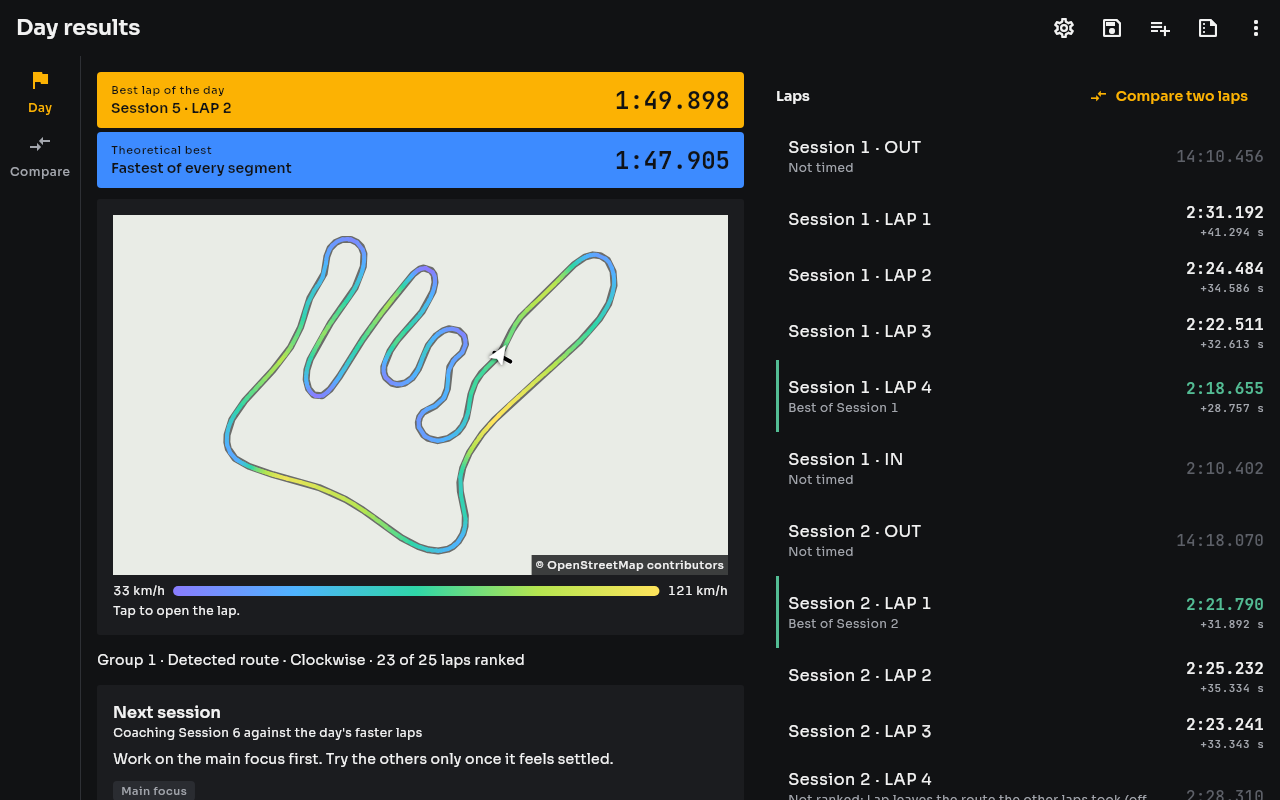
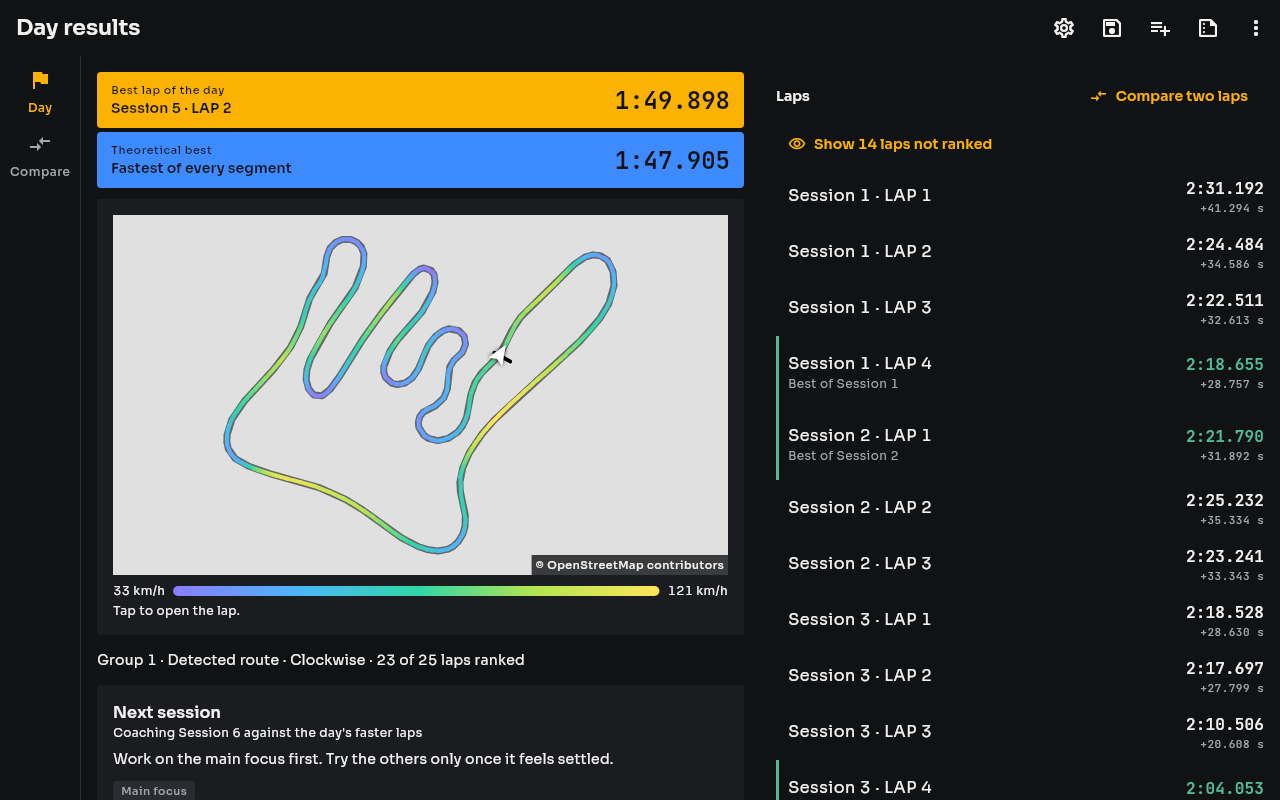
FET-153: hide laps not ranked in the lap list, with a show/hide button (#116)
Out laps, in laps, sections without a start/finish pass, excluded laps
and laps with an issue are hidden from the day's lap list by default.
"Show N laps not ranked" brings them back; the choice is remembered on
the device in settings.json. Only the list changes: the day, its
.fetproject and the recordings keep every lap. With no ranked lap the
list shows everything. Guide, screenshots and Polish strings updated.

Claude-Session: https://claude.ai/code/session_015nymQH33NBGSSd59iCbhRx

diff --git a/test/day/day_results_page_test.dart b/test/day/day_results_page_test.dart
@@ -19,6 +19,7 @@ import 'package:telemetry/format.dart';
 import 'package:telemetry/main.dart';
 import 'package:telemetry/settings_dialog.dart';
 import 'package:telemetry/ui/theme.dart';
+import 'package:telemetry/units.dart';
 import 'package:telemetry_core/telemetry_core.dart';
 
 import 'blank_tiles.dart';
@@ -151,9 +152,53 @@ void main() {
       find.text(displayDelta(second.durationSeconds - best.durationSeconds)),
       findsOneWidget,
     );
-    // OUT, 3 laps, IN; OUT, 2 laps, IN.
+    // OUT, 3 laps, IN; OUT, 2 laps, IN: the out and in laps are not
+    // ranked, so the list hides them until asked.
+    addTearDown(() => hideUnrankedLapsSetting.value = true);
+    expect(hideUnrankedLapsSetting.value, isTrue);
+    expect(find.textContaining(' · OUT'), findsNothing);
+    expect(find.textContaining(' · IN'), findsNothing);
+    expect(find.textContaining(' · LAP '), findsNWidgets(5));
+    await tester.tap(find.text('Show 4 laps not ranked'));
+    await tester.pumpAndSettle();
     expect(find.textContaining(' · OUT'), findsNWidgets(2));
     expect(find.textContaining(' · IN'), findsNWidgets(2));
+    // The choice is the device's setting.
+    expect(hideUnrankedLapsSetting.value, isFalse);
+    await tester.tap(find.text('Hide laps not ranked'));
+    await tester.pumpAndSettle();
+    expect(find.textContaining(' · OUT'), findsNothing);
+    expect(hideUnrankedLapsSetting.value, isTrue);
+  });
+
+  testWidgets('with no ranked lap, the lap list shows every lap', (
+    tester,
+  ) async {
+    final outcome = importDay({
+      'a.vbo': [30, 28, 31],
+    });
+    final controller = DayResultsController(
+      runs: outcome.runs,
+      analysis: outcome.analysis!,
+    );
+    for (final lap in outcome.analysis!.ranking!.eligibleLaps.toList()) {
+      expect(controller.exclude(lap, 'Traffic'), isTrue);
+    }
+    expect(controller.ranking?.eligibleLaps ?? const [], isEmpty);
+    await tester.binding.setSurfaceSize(const Size(400, 1600));
+    addTearDown(() => tester.binding.setSurfaceSize(null));
+    await tester.pumpWidget(
+      TelemetryApp(home: DayResultsPage.controller(controller: controller)),
+    );
+    await tester.tap(find.widgetWithText(NavigationDestination, 'Laps'));
+    await tester.pumpAndSettle();
+    expect(hideUnrankedLapsSetting.value, isTrue);
+    expect(find.byKey(const ValueKey('lapsUnrankedToggle')), findsNothing);
+    expect(find.text('Excluded: Traffic'), findsNWidgets(3));
+    expect(find.textContaining(' · OUT'), findsOneWidget);
+    expect(find.textContaining(' · IN'), findsOneWidget);
+    // Hiding never changed the day.
+    expect(controller.analysis.rows, hasLength(5));
   });
 
   for (final (name, size, section) in [
@@ -279,6 +324,12 @@ void main() {
       );
 
       await tester.pageBack();
+      await tester.pumpAndSettle();
+      // The excluded lap leaves the list with the out and in laps, until
+      // they are shown.
+      addTearDown(() => hideUnrankedLapsSetting.value = true);
+      expect(find.text('Excluded: Traffic'), findsNothing);
+      await tester.tap(find.text('Show 3 laps not ranked'));
       await tester.pumpAndSettle();
       expect(find.text('Excluded: Traffic'), findsOneWidget);
       expect(find.text(second.displayName), findsWidgets);
@@ -477,6 +528,11 @@ void main() {
     await tester.pumpAndSettle();
     expect(find.text('Porównaj dwa okrążenia'), findsOneWidget);
     expect(find.text('Najlepsze okrążenie dnia'), findsOneWidget);
+    expect(find.text('Sesja 2 · OKR. WYJAZDOWE'), findsNothing);
+    addTearDown(() => hideUnrankedLapsSetting.value = true);
+    await tester.tap(find.text('Pokaż 4 niesklasyfikowane okrążenia'));
+    await tester.pumpAndSettle();
+    expect(find.text('Ukryj niesklasyfikowane okrążenia'), findsOneWidget);
     expect(find.text('Sesja 2 · OKR. WYJAZDOWE'), findsOneWidget);
     expect(find.text('Sesja 1 · OKR. 2'), findsWidgets);
 
@@ -725,6 +781,11 @@ void main() {
         home: DayResultsPage.opened(day: opened, documents: documents),
       ),
     );
+    await tester.pumpAndSettle();
+    // Hidden with the laps that are not ranked, and there when shown.
+    addTearDown(() => hideUnrankedLapsSetting.value = true);
+    expect(find.text('Excluded: Traffic'), findsNothing);
+    await tester.tap(find.byKey(const ValueKey('lapsUnrankedToggle')));
     await tester.pumpAndSettle();
     expect(find.text('Excluded: Traffic'), findsOneWidget);
     expect(

diff --git a/lib/units.dart b/lib/units.dart
@@ -38,6 +38,13 @@ final ValueNotifier<SpeedUnitSetting> speedUnitSetting = ValueNotifier(
 /// and kept in `settings.json` with [speedUnitSetting]. On by default.
 final ValueNotifier<bool> weatherLookupSetting = ValueNotifier(true);
 
+/// Whether the lap list hides the laps that are not ranked (out and in
+/// laps, sections without a start/finish pass, excluded laps and laps with
+/// an issue), chosen with the list's
+/// show and hide button and kept in `settings.json`. On by default. Only
+/// the list changes: the day and its recordings keep every lap.
+final ValueNotifier<bool> hideUnrankedLapsSetting = ValueNotifier(true);
+
 /// The speed unit each of the open day's recordings declares ("km/h",
 /// "mph", or empty when it declares none). Set when a day opens.
 List<String> declaredSpeedUnits = const [];
@@ -109,7 +116,8 @@ String displayUnit(String name, String unit) {
   return daySpeedUnit(declared, speedUnitSetting.value.unit);
 }
 
-/// Reads and keeps [speedUnitSetting] and [weatherLookupSetting] in
+/// Reads and keeps [speedUnitSetting], [weatherLookupSetting] and
+/// [hideUnrankedLapsSetting] in
 /// `settings.json` in the app's support folder. Off in `flutter test`.
 Future<void> loadSettings() async {
   if (kIsWeb || Platform.environment.containsKey('FLUTTER_TEST')) return;
@@ -132,6 +140,9 @@ Future<void> loadSettings() async {
       if (json is Map && json['weatherLookup'] is bool) {
         weatherLookupSetting.value = json['weatherLookup'] as bool;
       }
+      if (json is Map && json['hideUnrankedLaps'] is bool) {
+        hideUnrankedLapsSetting.value = json['hideUnrankedLaps'] as bool;
+      }
     }
   } on Exception catch (error) {
     debugPrint('Settings not read: $error');
@@ -143,6 +154,7 @@ Future<void> loadSettings() async {
         jsonEncode({
           'speedUnit': speedUnitSetting.value.name,
           'weatherLookup': weatherLookupSetting.value,
+          'hideUnrankedLaps': hideUnrankedLapsSetting.value,
         }),
       );
     } on Exception catch (error) {
@@ -152,6 +164,7 @@ Future<void> loadSettings() async {
 
   speedUnitSetting.addListener(write);
   weatherLookupSetting.addListener(write);
+  hideUnrankedLapsSetting.addListener(write);
 }
 
 /// Rebuilds what shows a speed unit when [speedUnitSetting] changes; put

diff --git a/lib/day/day_results_page.dart b/lib/day/day_results_page.dart
@@ -18,6 +18,7 @@ import '../import/import_review_page.dart';
 import '../l10n.dart';
 import '../profile/profile_library.dart';
 import '../settings_dialog.dart';
+import '../units.dart' show hideUnrankedLapsSetting;
 import 'background_task.dart';
 import 'channel_cards.dart';
 import 'comparison_page.dart';
@@ -1732,7 +1733,45 @@ class _DayResultsPageState extends State<DayResultsPage> {
             ),
         ],
       ),
-      for (final row in _controller.analysis.rows) _lapTile(context, row),
+      ..._lapRows(context),
+    ];
+  }
+
+  /// The lap list's rows. The laps that are not ranked (out and in laps,
+  /// sections without a start/finish pass, excluded laps, laps with an
+  /// issue) are hidden while the setting says so and the day has a ranked
+  /// lap to show instead; a button shows or hides them. The day keeps every
+  /// lap either way.
+  List<Widget> _lapRows(BuildContext context) {
+    final l10n = context.l10n;
+    final rows = _controller.analysis.rows;
+    final ranked = {
+      for (final row in rows)
+        if (row.type == LapSectionType.lap && _controller.issues(row).isEmpty)
+          row.reference,
+    };
+    final unranked = rows.length - ranked.length;
+    if (unranked == 0 || unranked == rows.length) {
+      return [for (final row in rows) _lapTile(context, row)];
+    }
+    final hide = hideUnrankedLapsSetting.value;
+    return [
+      Align(
+        alignment: AlignmentDirectional.centerStart,
+        child: TextButton.icon(
+          key: const ValueKey('lapsUnrankedToggle'),
+          onPressed: () =>
+              setState(() => hideUnrankedLapsSetting.value = !hide),
+          icon: Icon(
+            hide ? Icons.visibility_outlined : Icons.visibility_off_outlined,
+          ),
+          label: Text(
+            hide ? l10n.lapsShowUnranked(unranked) : l10n.lapsHideUnranked,
+          ),
+        ),
+      ),
+      for (final row in rows)
+        if (!hide || ranked.contains(row.reference)) _lapTile(context, row),
     ];
   }
 

diff --git a/docs/user-guide/pages/laps.html b/docs/user-guide/pages/laps.html
@@ -1,11 +1,14 @@
 <!-- title: The lap list | nav: The lap list -->
 <h1 id="laps">The lap list</h1>
-<p class="lead">Every part of every session, in the order it was driven: out laps, laps, in laps. On a phone it is the <strong>Laps</strong> section of the bottom bar.</p>
+<p class="lead">The ranked laps of every session, in the order they were driven. On a phone it is the <strong>Laps</strong> section of the bottom bar.</p>
 
 <figure class="phone">
-  <img src="assets/screens/phone-laps.png" alt="The Laps section on a phone, listing each session's OUT, LAP and IN sections, with times on the right" width="412" height="915" loading="lazy">
+  <img src="assets/screens/phone-laps.png" alt="The Laps section on a phone: Show 14 laps not ranked above the ranked laps of each session, with times on the right" width="412" height="915" loading="lazy">
   <figcaption>The Laps section on a Pixel-sized screen.</figcaption>
 </figure>
+
+<h2 id="hidden">Laps that are not ranked</h2>
+<p>Out laps, in laps, sections without a start/finish pass, laps you excluded and laps with an issue are hidden, so the list shows only the laps that count. A session with no ranked lap appears only while they are shown. <strong>Show N laps not ranked</strong> above the list brings them back, in their place between the other laps; <strong>Hide laps not ranked</strong> hides them again. The app remembers your choice on this device. Hiding changes only the list: the day, its saved file and the recordings keep every lap. When no lap of the day is ranked, the list shows them all.</p>
 
 <h2 id="row">Reading a row</h2>
 <ul>

diff --git a/docs/user-guide/pages/index.html b/docs/user-guide/pages/index.html
@@ -3,8 +3,8 @@
 <p class="lead">FlappedEar Telemetry turns a track day of RaceChrono recordings into lap times, your best lap on the map, and where the time goes. It runs on Android, iPhone and iPad, macOS and Windows.</p>
 
 <figure>
-  <img src="assets/screens/day-wide.png" alt="Day results: the best lap of the day on its map, coloured by speed, with every lap of the day listed on the right" width="1280" height="800" loading="lazy">
-  <figcaption>The day's results: the best lap first, every lap of every session on the right.</figcaption>
+  <img src="assets/screens/day-wide.png" alt="Day results: the best lap of the day on its map, coloured by speed, with the day's ranked laps listed on the right" width="1280" height="800" loading="lazy">
+  <figcaption>The day's results: the best lap first, the ranked laps of every session on the right.</figcaption>
 </figure>
 
 <h2 id="what">What it does</h2>

diff --git a/lib/l10n/app_localizations.dart b/lib/l10n/app_localizations.dart
@@ -7268,6 +7268,18 @@ abstract class AppLocalizations {
   /// In en, this message translates to:
   /// **'Track {number}'**
   String libraryDefaultTrack(int number);
+
+  /// Button above the lap list that shows the hidden laps that are not ranked: out laps, in laps, laps the driver excluded and laps with an issue.
+  ///
+  /// In en, this message translates to:
+  /// **'{count, plural, =1{Show 1 lap not ranked} other{Show {count} laps not ranked}}'**
+  String lapsShowUnranked(int count);
+
+  /// Button above the lap list that hides the laps that are not ranked (out laps, in laps, excluded laps, laps with an issue). The day keeps them.
+  ///
+  /// In en, this message translates to:
+  /// **'Hide laps not ranked'**
+  String get lapsHideUnranked;
 }
 
 class _AppLocalizationsDelegate

diff --git a/docs/user-guide/pages/lap.html b/docs/user-guide/pages/lap.html
@@ -20,7 +20,7 @@
 <figure>
   <img src="assets/screens/exclude-dialog.png" alt="Exclude this lap dialog with a Reason field" width="1280" height="800" loading="lazy">
 </figure>
-<p>The lap stays in the list as <em>Excluded: &lt;reason&gt;</em>. <strong>Include in ranking</strong> brings it back. Exclusions are saved with the day.</p>
+<p>While <a href="laps.html#hidden">laps that are not ranked</a> are hidden, the lap leaves the lap list with them; shown, it reads <em>Excluded: &lt;reason&gt;</em>. <strong>Include in ranking</strong> brings it back. Exclusions are saved with the day.</p>
 
 <h2 id="map">The map</h2>
 <ul>

diff --git a/lib/l10n/app_localizations_pl.dart b/lib/l10n/app_localizations_pl.dart
@@ -4908,4 +4908,19 @@ class AppLocalizationsPl extends AppLocalizations {
   String libraryDefaultTrack(int number) {
     return 'Tor $number';
   }
+
+  @override
+  String lapsShowUnranked(int count) {
+    String _temp0 = intl.Intl.pluralLogic(
+      count,
+      locale: localeName,
+      other: 'Pokaż $count niesklasyfikowanych okrążeń',
+      few: 'Pokaż $count niesklasyfikowane okrążenia',
+      one: 'Pokaż 1 niesklasyfikowane okrążenie',
+    );
+    return '$_temp0';
+  }
+
+  @override
+  String get lapsHideUnranked => 'Ukryj niesklasyfikowane okrążenia';
 }

diff --git a/lib/l10n/app_localizations_en.dart b/lib/l10n/app_localizations_en.dart
@@ -4795,4 +4795,18 @@ class AppLocalizationsEn extends AppLocalizations {
   String libraryDefaultTrack(int number) {
     return 'Track $number';
   }
+
+  @override
+  String lapsShowUnranked(int count) {
+    String _temp0 = intl.Intl.pluralLogic(
+      count,
+      locale: localeName,
+      other: 'Show $count laps not ranked',
+      one: 'Show 1 lap not ranked',
+    );
+    return '$_temp0';
+  }
+
+  @override
+  String get lapsHideUnranked => 'Hide laps not ranked';
 }
